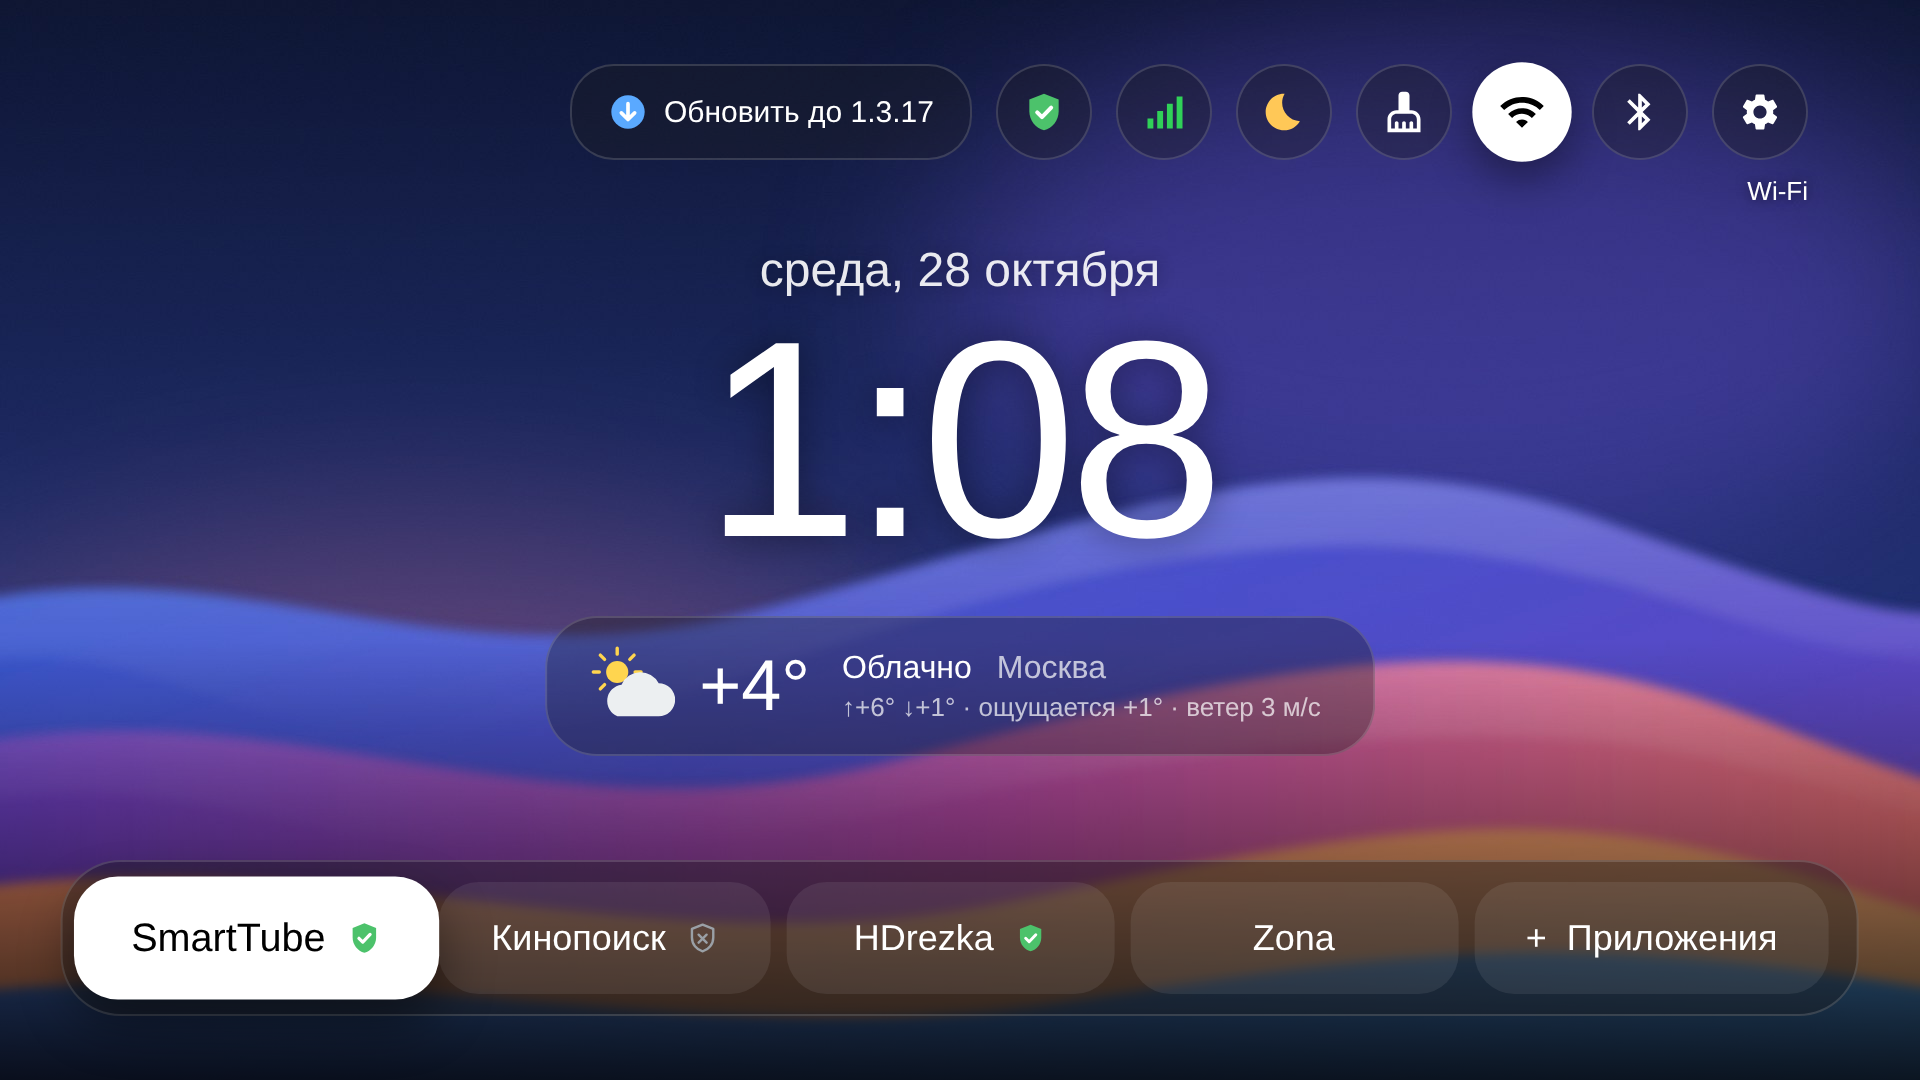
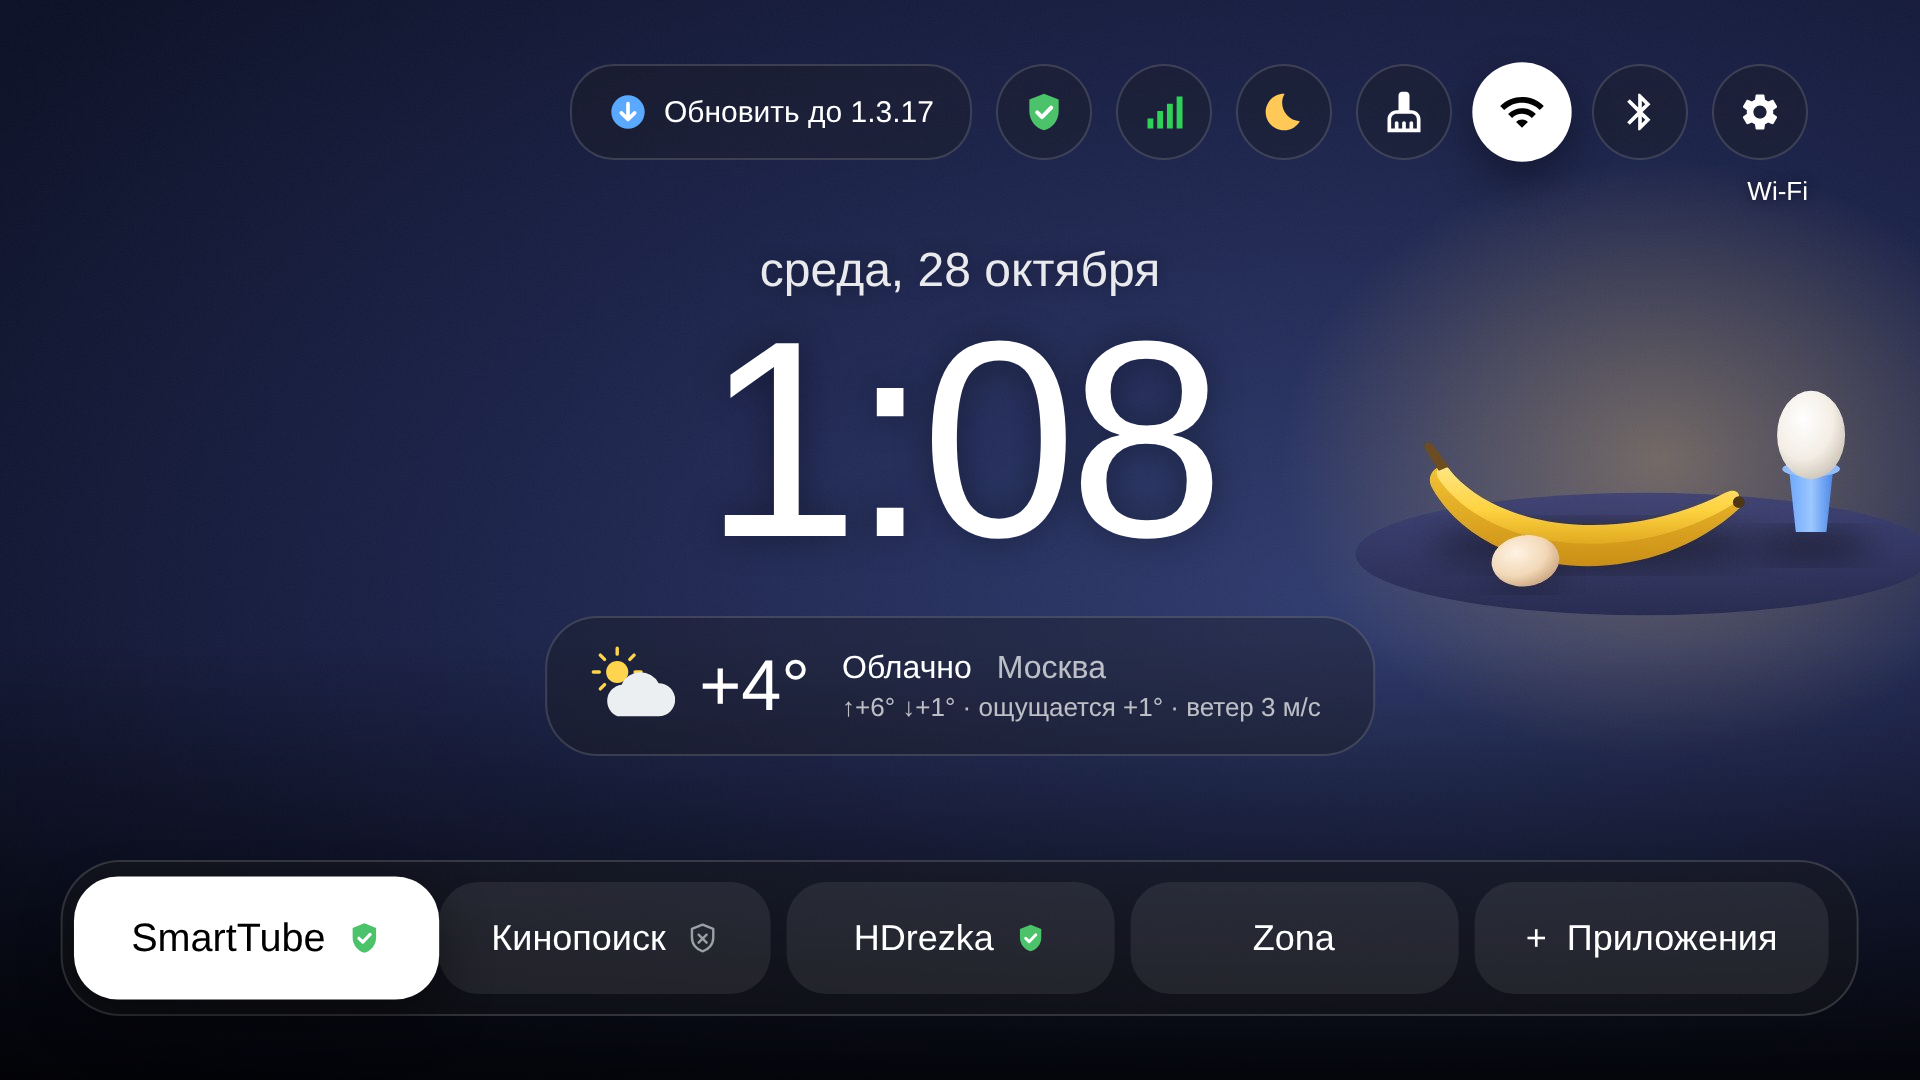
Add the new wallpaper file and point code at it
Claude-Session: https://claude.ai/code/session_01LvXXJ4je6DpEGJTiyUJv5s

diff --git a/app/src/main/java/ru/my/tvlauncher/Wallpaper.java b/app/src/main/java/ru/my/tvlauncher/Wallpaper.java
@@ -8,7 +8,7 @@ import android.graphics.BitmapFactory;
 import java.io.File;
 
 /**
- * Статичный фон в стиле macOS (свой рисунок, встроен в лаунчер — без интернета).
+ * Статичный фон: натюрморт «банан и два яйца» (свой рисунок, встроен в лаунчер — без интернета).
  * Декодируем в половинном разрешении и в 16-битном цвете: на плавных градиентах
  * разницы не видно, а в памяти ~1 МБ вместо ~8 МБ.
  */
@@ -23,7 +23,7 @@ final class Wallpaper {
         BitmapFactory.Options o = new BitmapFactory.Options();
         o.inSampleSize = 2;
         o.inPreferredConfig = Bitmap.Config.RGB_565;
-        cached = BitmapFactory.decodeResource(res, R.drawable.wallpaper_waves, o);
+        cached = BitmapFactory.decodeResource(res, R.drawable.wallpaper_main, o);
         return cached;
     }
 

diff --git a/README.md b/README.md
@@ -132,6 +132,9 @@
 - `tools/optimize.ps1` — ускорение системы: анимации ×0.5, заморозка фоновых приложений,
   отключение лишних сервисов Xiaomi и Google, очистка кэшей, оптимизация приложений.
 
+**1.3.17 — новый фон**
+- Фон и заставка — натюрморт «банан и два яйца» на тёмно-синем фоне (свой рисунок, 48 КБ).
+
 ## Ускорение системы
 
 Скопируйте `tools/optimize.ps1` в папку с adb и выполните:
